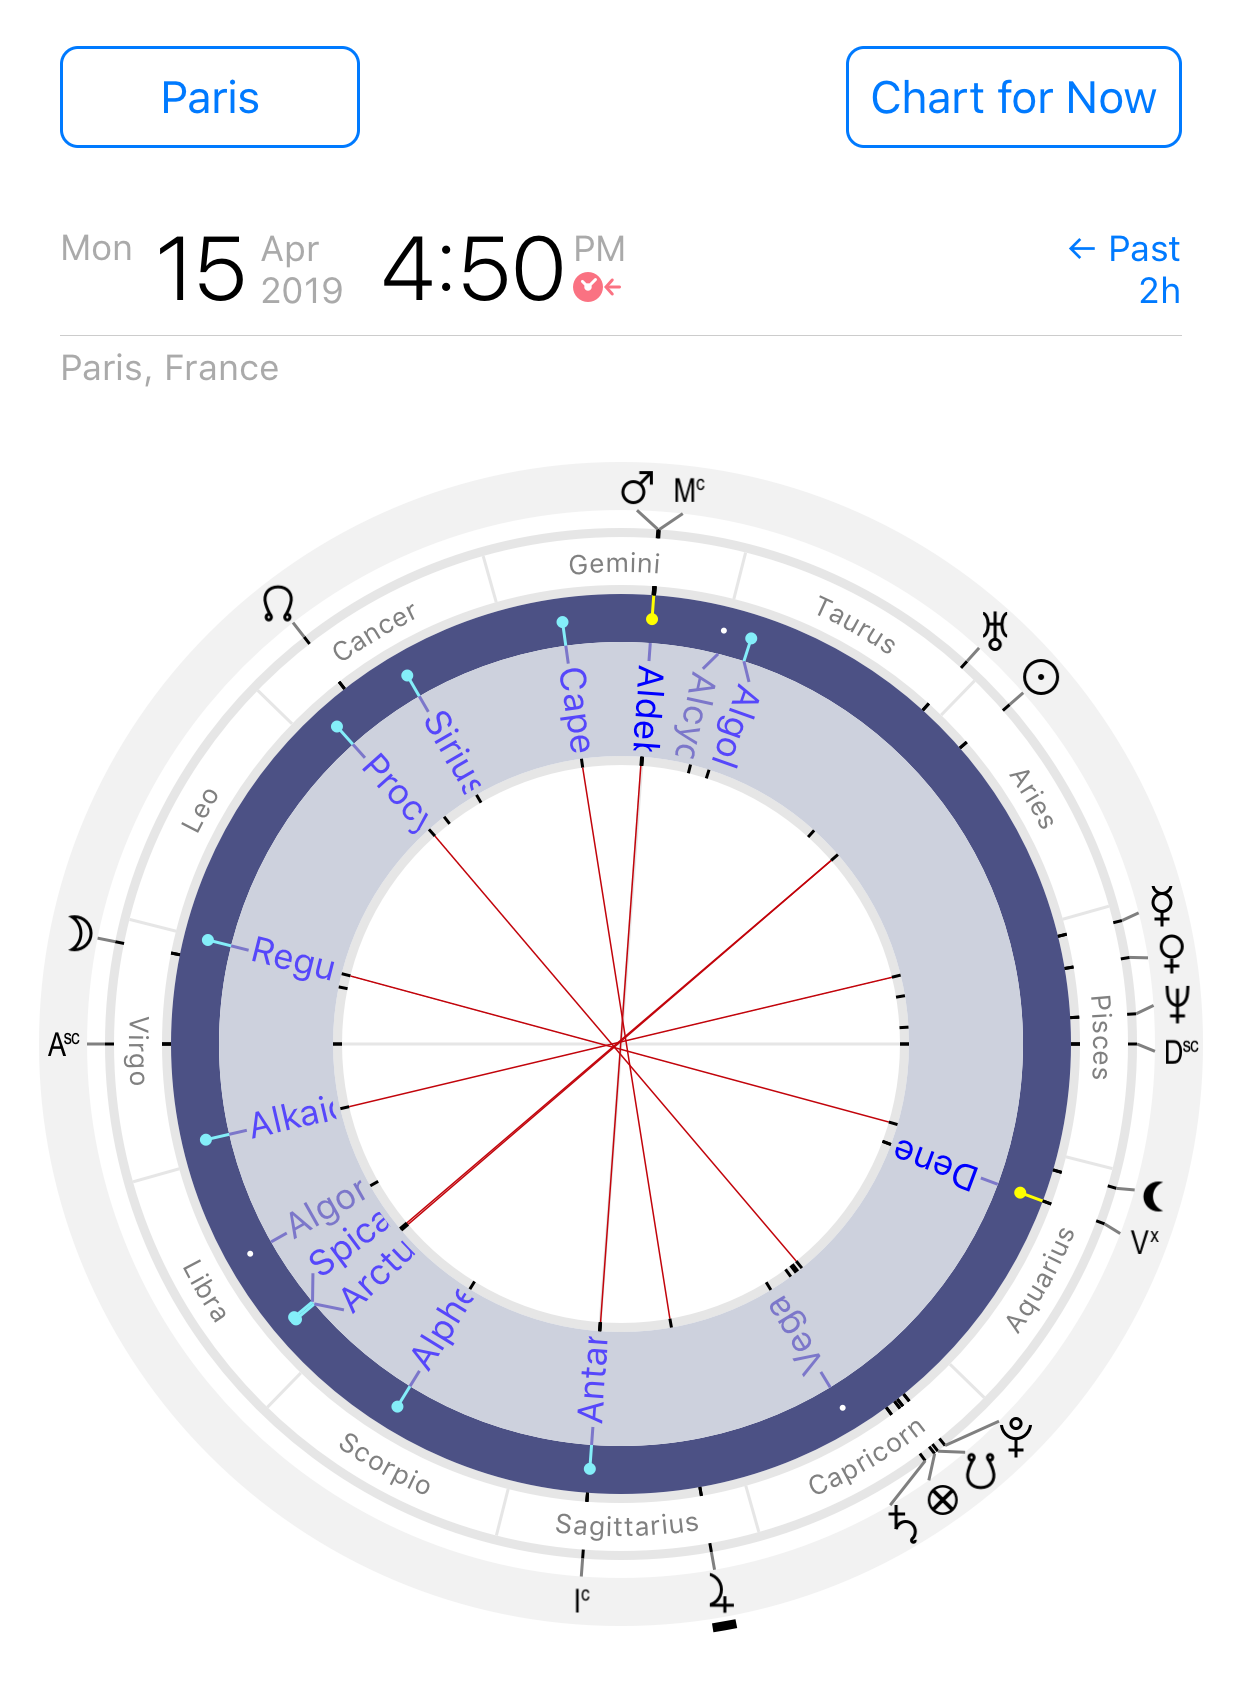
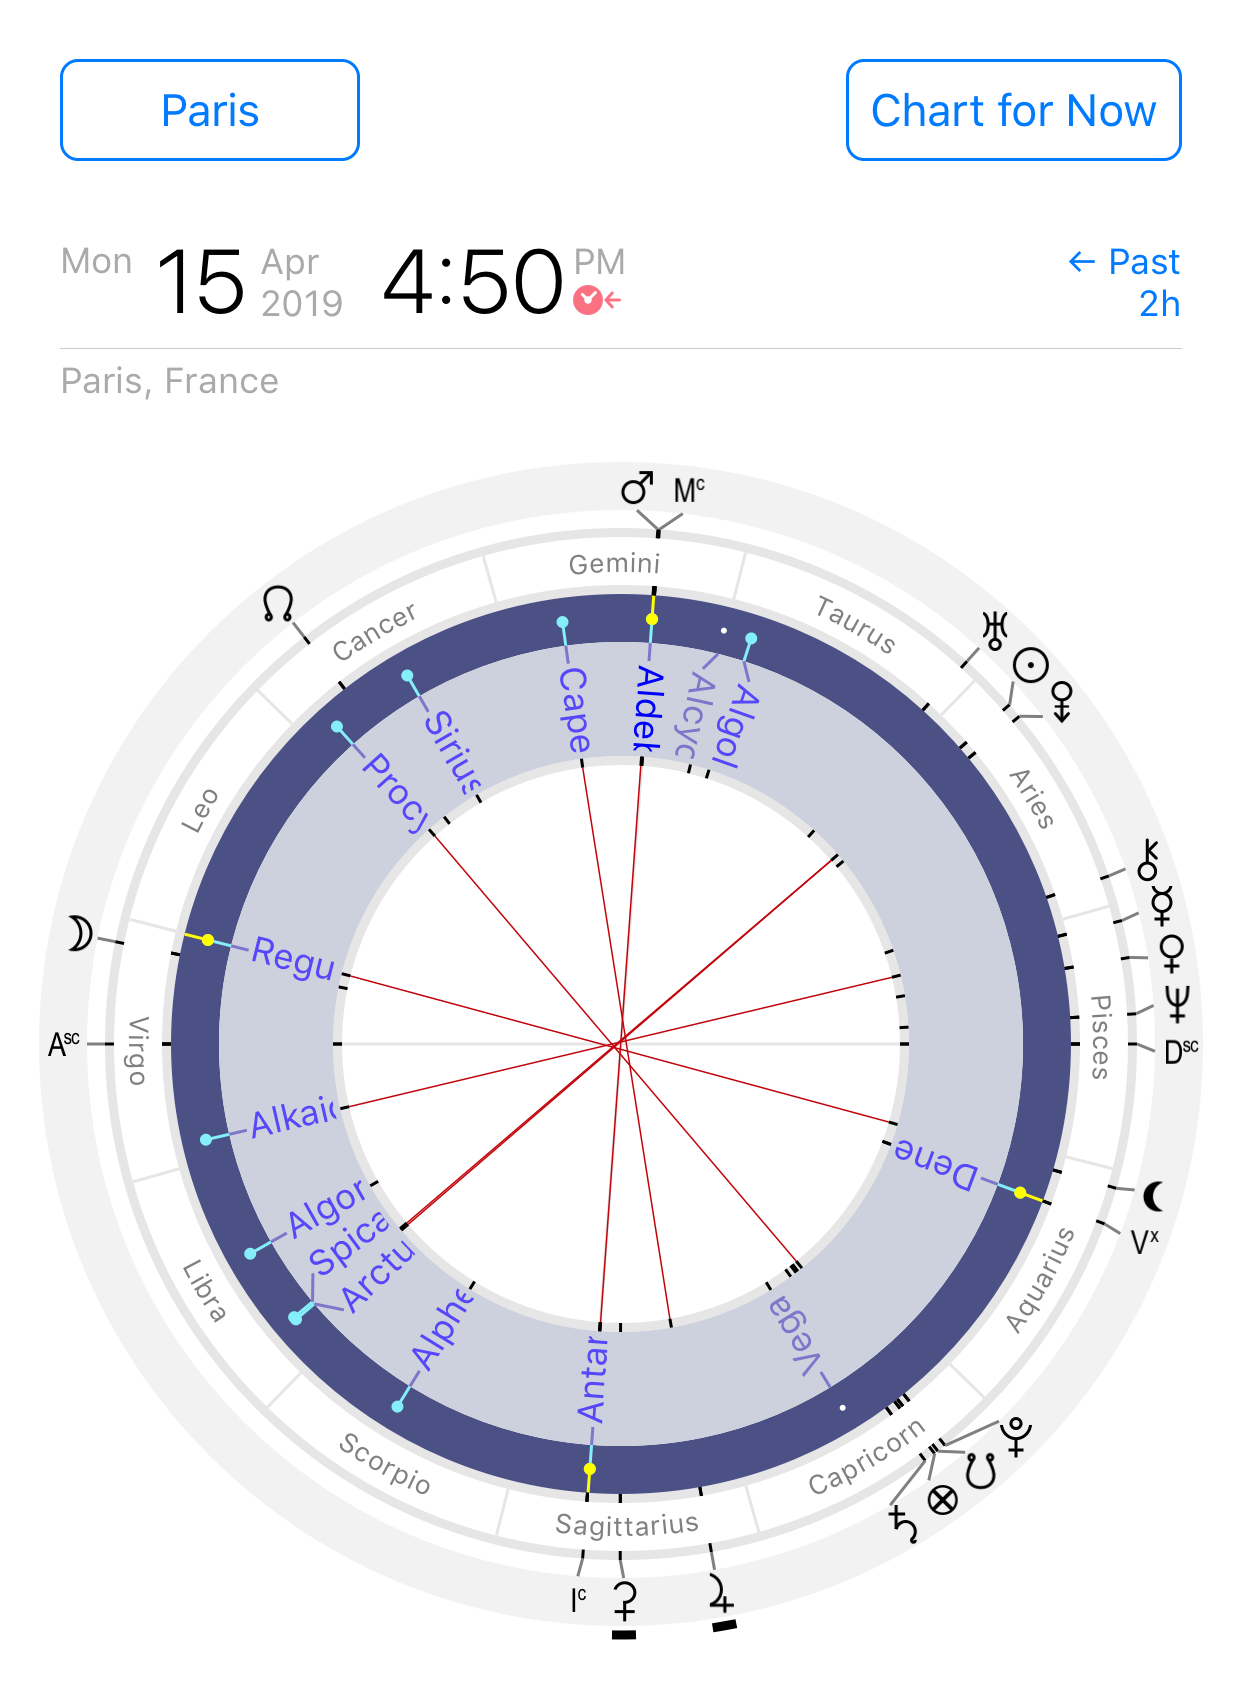
edits

diff --git a/collections/_posts/2019-04-16-influence-of-fixed-stars-case-of-notre-dame-fire.md b/collections/_posts/2019-04-16-influence-of-fixed-stars-case-of-notre-dame-fire.md
@@ -2,7 +2,7 @@
 layout: post
 uuid: P-20190415
 date: 2019-04-15 12:00:00 +1000
-modified: 2019-04-15 12:00:00 +1000
+modified: 2019-04-16 12:00:00 +1000
 title: Influence of the Fixed Stars, an astrological interpretation of Notre-Dame de Paris fire, 15 April 2019
 description: Fires and other punctual accidents are often the result of exact alignments between planets and the fixed stars. Fire of Notre-Dame Cathedral that took place on 15 April, 2019 is the case in point.
 categories: posts astrology event
@@ -102,8 +102,8 @@ Influence of the fixed stars is very different from influence of the planets. Th
     </div>
     <div class="col-6">
       <div class="row text-photo-caption-serif">
-		<strong>In the physical universe</strong> light from the source, for exammple, from a star, can be split into its spectral components by a prism.<br><br>
-		Making an <strong>astrological analogy</strong>, the wholeness or unity of light of any star, including our Sun, is projected along the spectre by its orbiting bodies. Each of planets therefore carries only some portion of the whole spectrum.<br><br>
+		<strong>In the physical universe</strong> light from the source, for example, from a star, can be split into its spectral components by a prism.<br><br>
+		Making an <strong>astrological analogy</strong>, the wholeness or unity of light of any star, including our Sun, is projected along the spectre by its orbiting bodies. Each of the planets therefore carries only some portion of the whole spectrum.<br><br>
 		<small class="post-pullout-box-copyright">Image source: D-Kuru/Wikimedia Commons</small>		
       </div>
     </div>
@@ -268,8 +268,9 @@ We can see that there is something brewing up but it doesn’t give us the whole
       <div class="row text-photo-caption-serif">
       	Chart of fixed stars aspects<br>
 		<strong>Notre-Dame Cathedral fire</strong><br>
-		15 April 2019 at 18:50<br>
+		15 April 2019 at 16:50<br>
 		Paris, France<br><br>
+		Two hours before the fire was reported<br><br>
 		The chart of <strong>two hours before</strong> the moment when the fire has been noticed.
       </div>
     </div>
@@ -290,7 +291,7 @@ Bingo, that when the needle enters the red zone! Just look at all those exact co
       <div class="row text-photo-caption-serif">
       	List of fixed stars aspects<br>
 		<strong>Notre-Dame Cathedral fire</strong><br>
-		15 April 2019 at 18:50<br>
+		15 April 2019 at 16:50<br>
 		Paris, France<br><br>
 		The chart of <strong>two hours before</strong> the moment when the fire has been noticed.<br><br>
 		Notice than <strong>numerous exact aspects</strong> to the fixed stars are taking place, it's truly incredible.
@@ -323,6 +324,42 @@ The most striking observations is the involvement of some powerful fixed stars:
 To sum it up, the chart for Notre-Dame Cathedral indicates exact aspects with the fixed stars of **mostly fiery, Marsian, nature**: Aldebaran, Antares and Regulus; and an aspect with Deneb Algedi which is of a dual and oscillating nature, especially when seen as a Uranus-Mercury blend of energies.
 
 What is clearly **missing is the Venusian presence** that could potentially bring the balance back.
+
+### What makes an event a local event
+
+For a moment, let’s forget about the fixed stars and take a look at a regular chart of aspects. What can we tell about the moment of 16:50 in Paris?
+
+<div class="container post-pullout-box">
+  <div class="row">
+    <div class="col-8">
+      <div class="row">
+      	<img class="lazyload" data-srcset="/images/charts/time-nomad-chart-notre-dame-fire-2019-04-15-minus-2-hours.png" alt="Astrological chart of Notre-Dame Cathedral fire of 15 April 2019, 18:50, two hours before fire reported">
+      </div>
+    </div>
+    <div class="col-4">
+      <div class="row text-photo-caption-serif">
+      	Tropical Zodiac chart of planetary aspects<br>
+		<strong>Notre-Dame Cathedral fire</strong><br>
+		15 April 2019 at 16:50<br>
+		Paris, France<br><br>
+		Two hours before the fire was reported
+      </div>
+    </div>
+  </div>
+</div>
+<div class="float-clear"></div>
+
+A few points immediately stand out:
+
+1. **Mars** on the **Midheaven**
+2. The **Part of Fortune** (also called, the Lot of Fortune or Fortuna) is tightly held between **Saturn**, **Pluto** and the **South Node**
+3. The **Vertex** conjunct to the **Black Moon** and opposed to the nearly full Moon
+
+This astral configuration was specific to Paris, France and not any other place on the Earth.
+
+Symbolically, one can perceive the **forces of karma of the past and a fiery retribution**. Karma comes from Saturn and Pluto, the most powerful planets that convey the forces to debt and judgement. The South Node is traditionally linked to anything past — past deeds, legacy, work done and actions related to spiritual progress. 
+
+Fiery retribution came directly from above, and the Midheaven is the symbol of that. Mars is the planet of fire that always delivers a targeted precise blow as if cut by a sword. The Midheaven is the point of the ecliptic that intersects with the local meridian, in other words the point of intersection of the trajectory of the Sun with the North-to-South line of that specific geographic location. Visually it’s a cross. Having a fiery blow from above that is directed at the church certainly sends some mystical shivers down the spine.
 
 ## A combustive mix of energies
 
